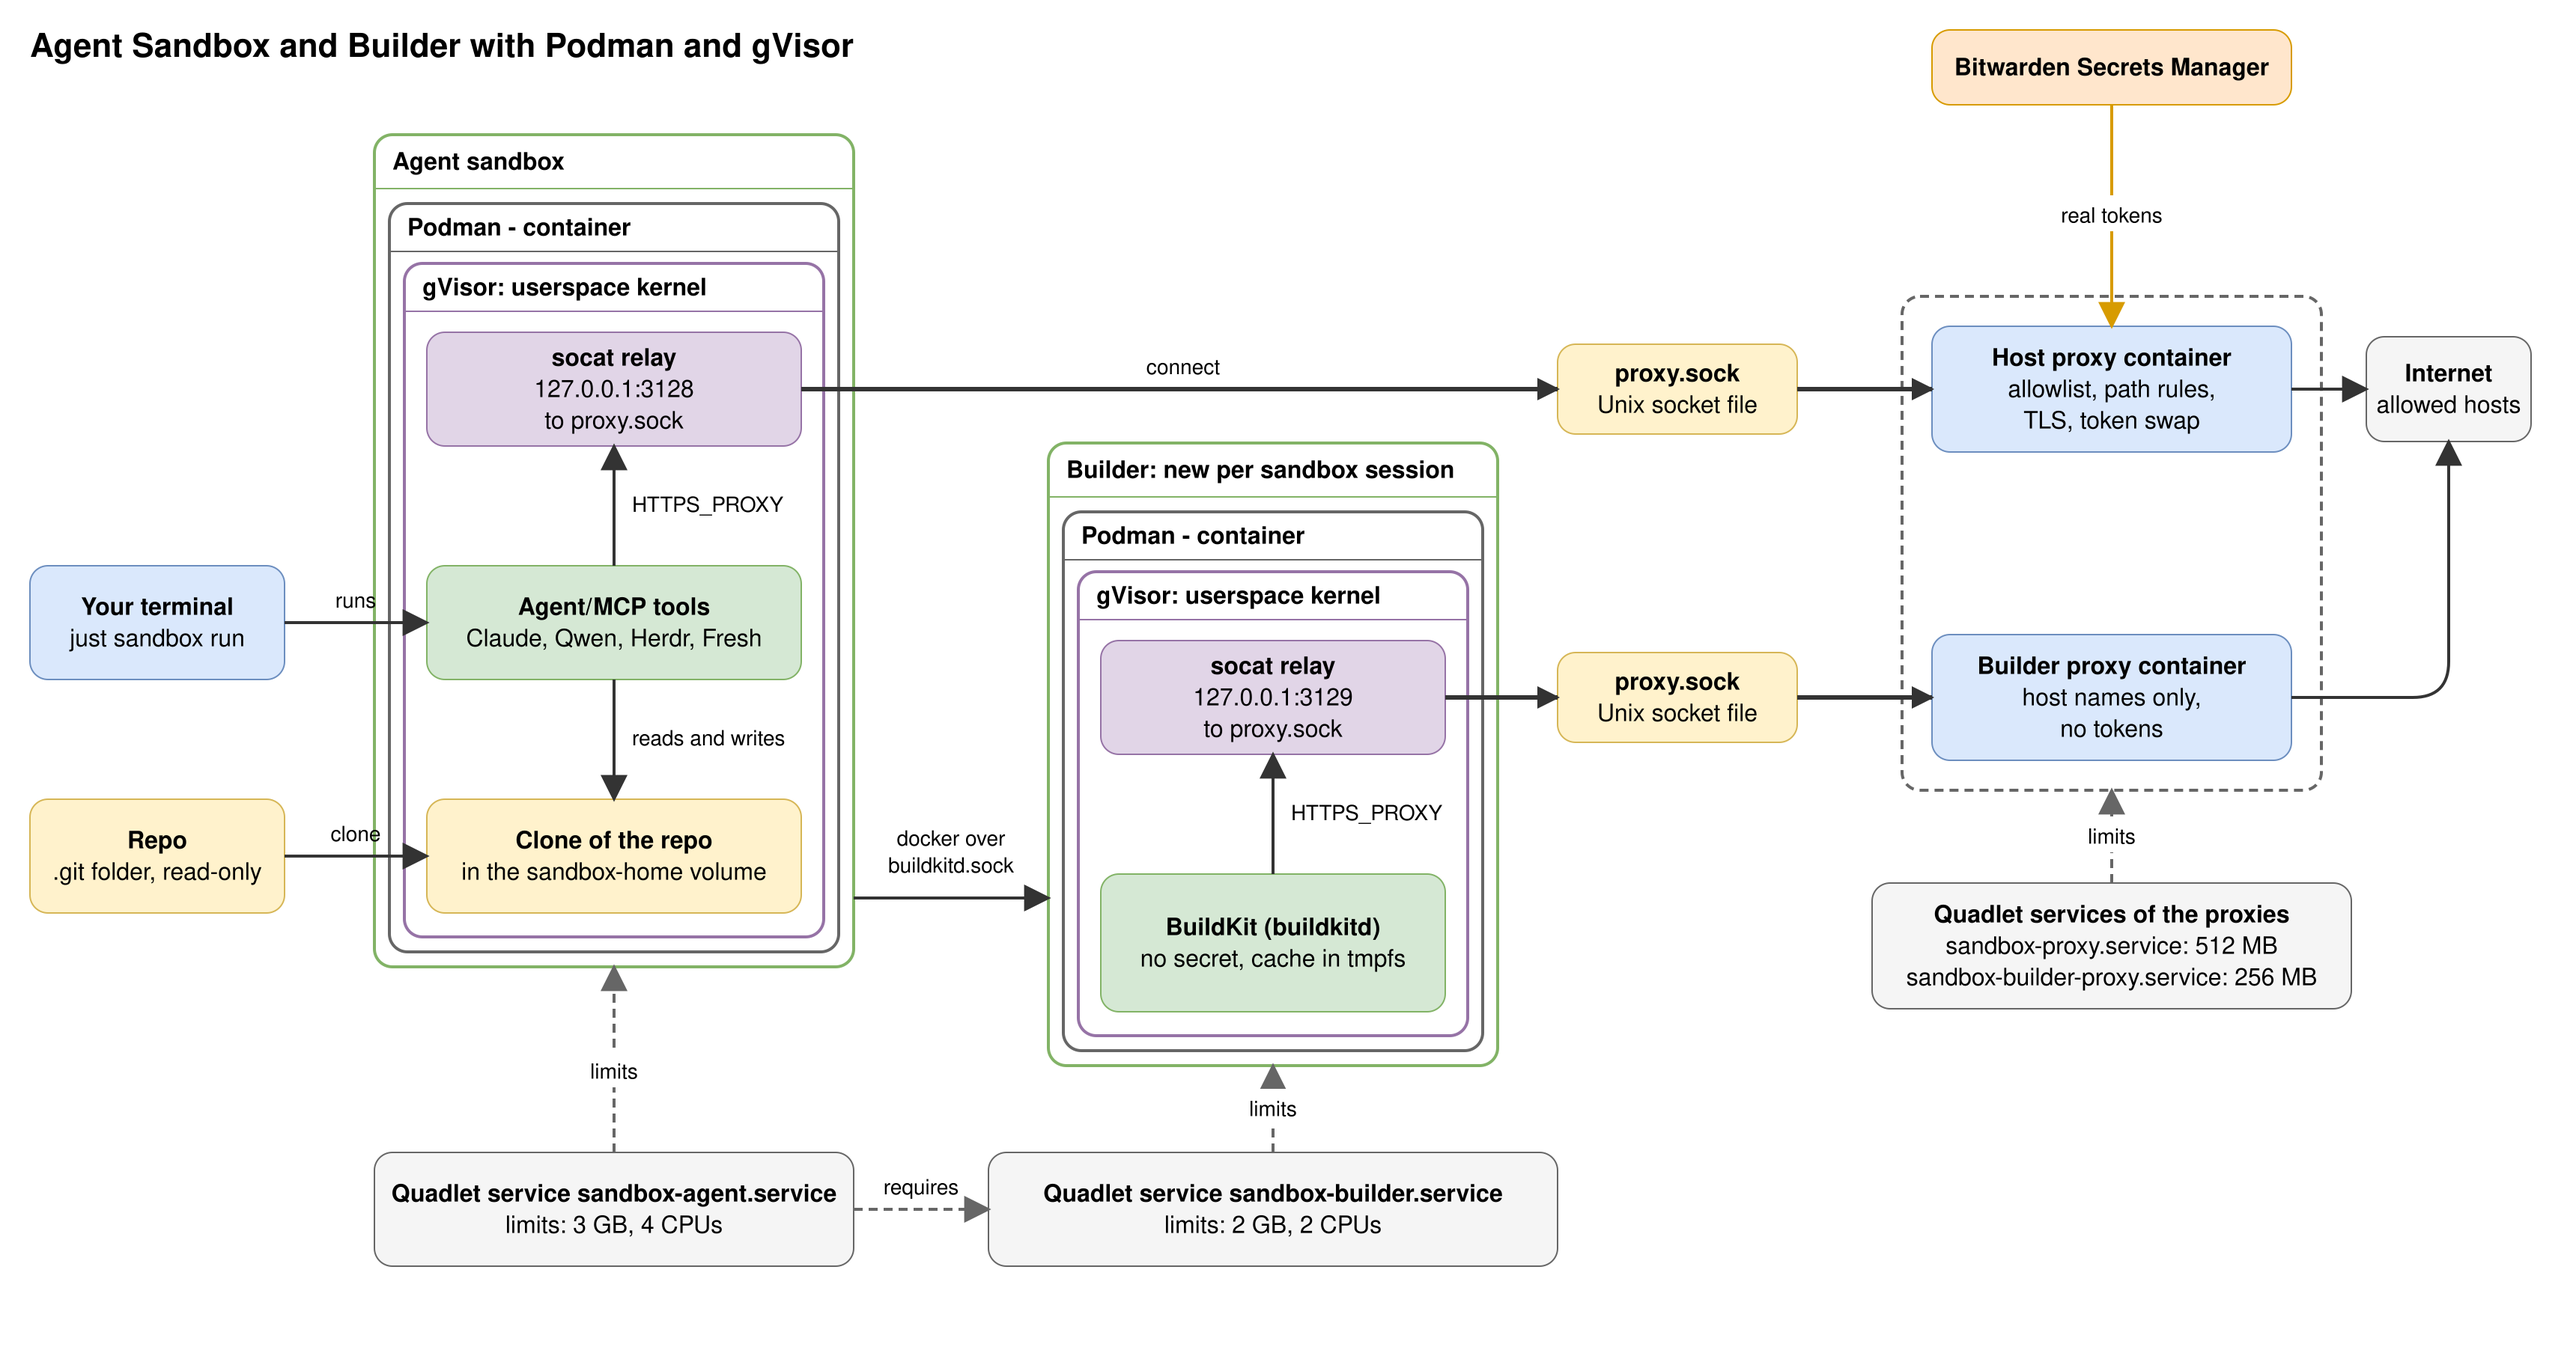
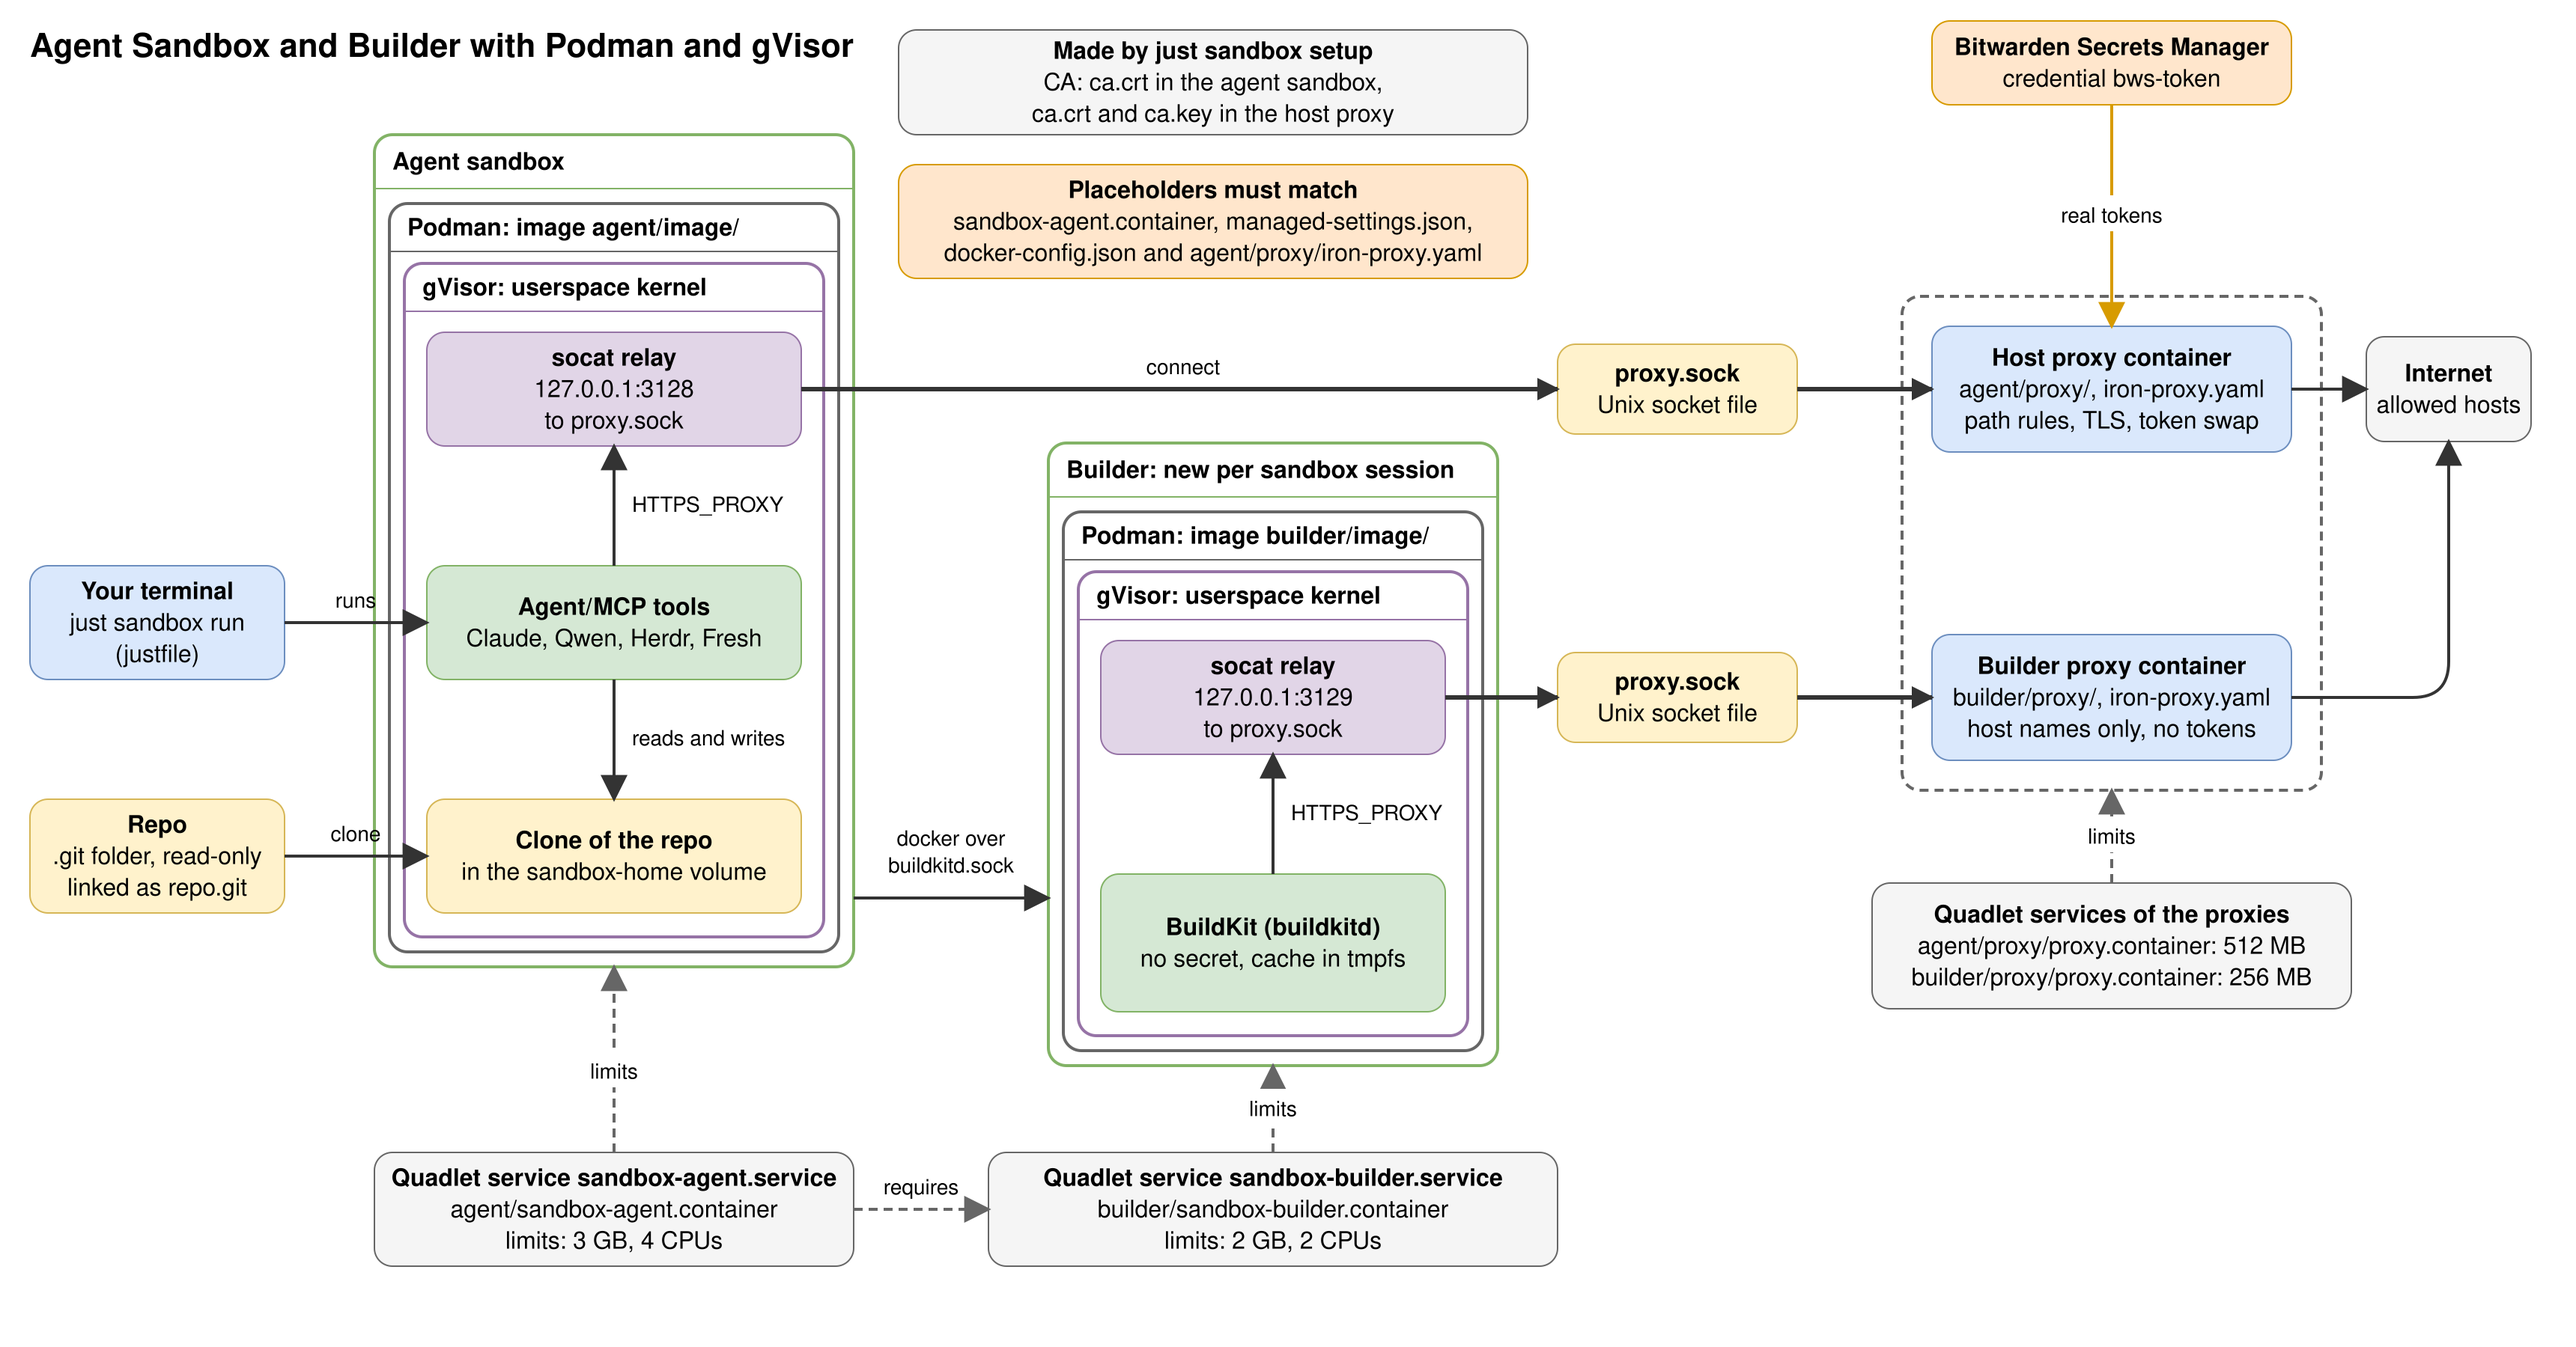
docs: show the files in the architecture diagram, not in a separate diagram
The architecture diagram has small mentions of the files: the unit file of each container, the image folder, the proxy configs, the justfile, the repo link, the CA and the credential. A note lists the files that hold the placeholders. The separate files diagram is gone.

diff --git a/.sandbox/docs/diagrams/README.md b/.sandbox/docs/diagrams/README.md
@@ -2,7 +2,7 @@
 
 | File | Use |
 |---|---|
-| `architecture.drawio` | Source of the architecture diagram. Shows your terminal, the repo, the agent sandbox, the builder, both proxy containers, Bitwarden and the internet. Each container is three nested boxes: the sandbox, Podman and gVisor. Each has the same `socat relay` box with an `HTTPS_PROXY` arrow in. A `connect` arrow goes from the relay to a `proxy.sock` box, which is the shared file, and from the file to its proxy container. The agent sandbox reaches the builder with `docker` over `buildkitd.sock`. A Quadlet service holds the limits of each container. A grey box shows the services of the two proxies. |
+| `architecture.drawio` | Source of the architecture diagram. Shows your terminal, the repo, the agent sandbox, the builder, both proxy containers, Bitwarden and the internet. Each container is three nested boxes: the sandbox, Podman and gVisor. Each has the same `socat relay` box with an `HTTPS_PROXY` arrow in. A `connect` arrow goes from the relay to a `proxy.sock` box, which is the shared file, and from the file to its proxy container. The agent sandbox reaches the builder with `docker` over `buildkitd.sock`. A Quadlet service holds the limits of each container. A grey box shows the services of the two proxies. Small mentions name the files: the unit file, the image folder and the config of each part. Two notes name the files that `setup` makes and the files that hold the placeholders. |
 | `architecture.svg` | The diagram as a plain SVG with real `<text>` elements and a white background. Drawn from the coordinates of the `.drawio` file. |
 | `architecture.png` | The PNG of the SVG, 2x with a white background. Make it with `rsvg-convert -z 2 -b white architecture.svg -o architecture.png`. |
 | `sandbox-network.drawio` | Source of the network diagram. Shows two lanes, one for the agent sandbox and one for the builder. Each lane has the network namespace, the sentry with the `socat` relay, the gofer, `proxy.sock` and its proxy container. The proxy container has a `socat` and `iron-proxy`. An orange box shows the systemd credential that the host proxy mounts. The host proxy ends TLS (`mitm`) and applies the path rules. The builder proxy passes TLS through (`sni-only`). An arrow shows `docker build` from the agent sandbox to `buildkitd` over `buildkitd.sock`. Each line names its carrier. |
@@ -14,8 +14,5 @@
 | `quadlet.drawio` | Source of the Quadlet diagram. Shows the four `.container` files, the Quadlet generator, and the four services in one box. Each service shows its limits. A `Requires` arrow joins each service to the service that it needs. Two notes say that the limits are in the service and that the builder and both proxies are part of the agent. |
 | `quadlet.svg` | The Quadlet diagram as a plain SVG, drawn in the same way. |
 | `quadlet.png` | The PNG of that SVG, made with `rsvg-convert -z 2 -b white quadlet.svg -o quadlet.png`. |
-| `files.drawio` | Source of the diagram of the files. Shows the repo files of each part, what `just sandbox build` and `setup` make on your host, and the four containers that run. Arrows show `build, link` and `run`. A `Requires` arrow joins each container to the one that it needs. A note says which files hold the placeholders. |
-| `files.svg` | The files diagram as a plain SVG, drawn in the same way. |
-| `files.png` | The PNG of that SVG, made with `rsvg-convert -z 2 -b white files.svg -o files.png`. |
 
 After an edit of a `.drawio` file, change the SVG in the same way, then make the PNG again. The flows are mermaid diagrams in `../internals.md`.

diff --git a/.sandbox/docs/internals.md b/.sandbox/docs/internals.md
@@ -14,6 +14,8 @@
 
 [![The agent sandbox and the builder](diagrams/architecture.png)](diagrams/architecture.svg)
 
+The architecture diagram names the files: the unit file of each container, the folder of its image, the proxy configs, the CA and the credential.
+
 The network path of the agent sandbox and the builder, inside gVisor:
 
 [![The network path of the sandbox with gVisor](diagrams/sandbox-network.png)](diagrams/sandbox-network.svg)
@@ -21,10 +23,6 @@ The network path of the agent sandbox and the builder, inside gVisor:
 Quadlet turns each `.container` file into a systemd service. The service holds the limits of the whole sandbox, because gVisor ignores the limits of Podman:
 
 [![How Quadlet controls the sandbox](diagrams/quadlet.png)](diagrams/quadlet.svg)
-
-How the files connect:
-
-[![How the files connect](diagrams/files.png)](diagrams/files.svg)
 
 ## The flows
 
